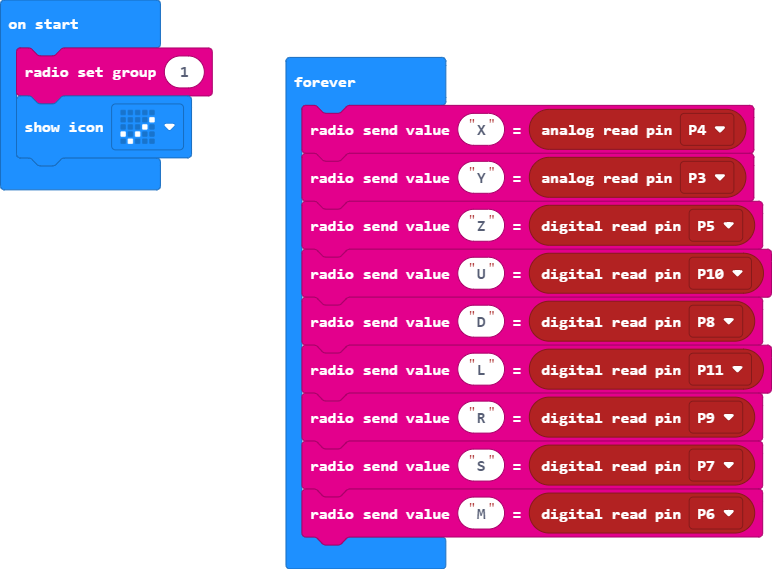
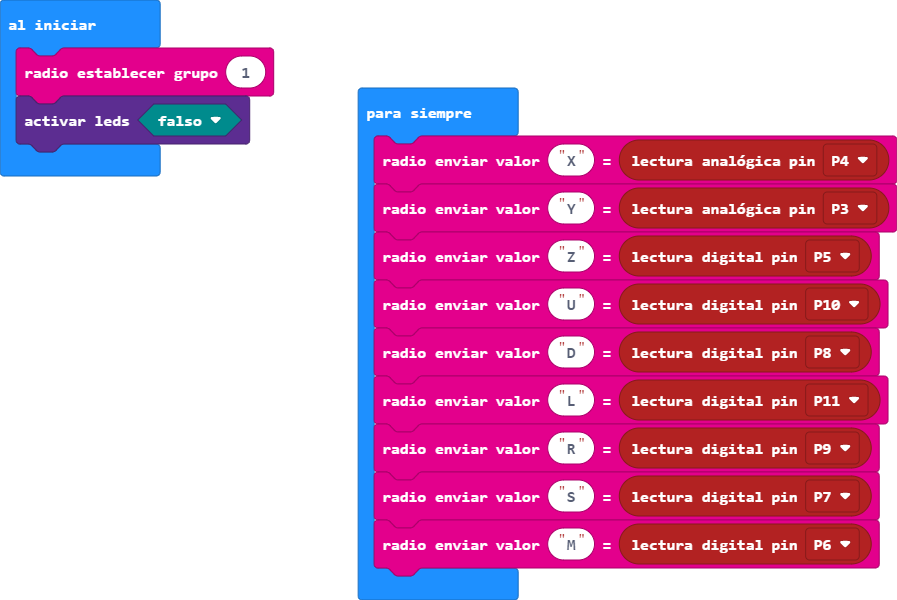
Actualizar main.blocks, main.ts

diff --git a/main.ts b/main.ts
@@ -1,5 +1,5 @@
 radio.setGroup(1)
-basic.showIcon(IconNames.Yes)
+led.enable(false)
 basic.forever(function () {
     radio.sendValue("X", pins.analogReadPin(AnalogPin.P4))
     radio.sendValue("Y", pins.analogReadPin(AnalogPin.P3))
